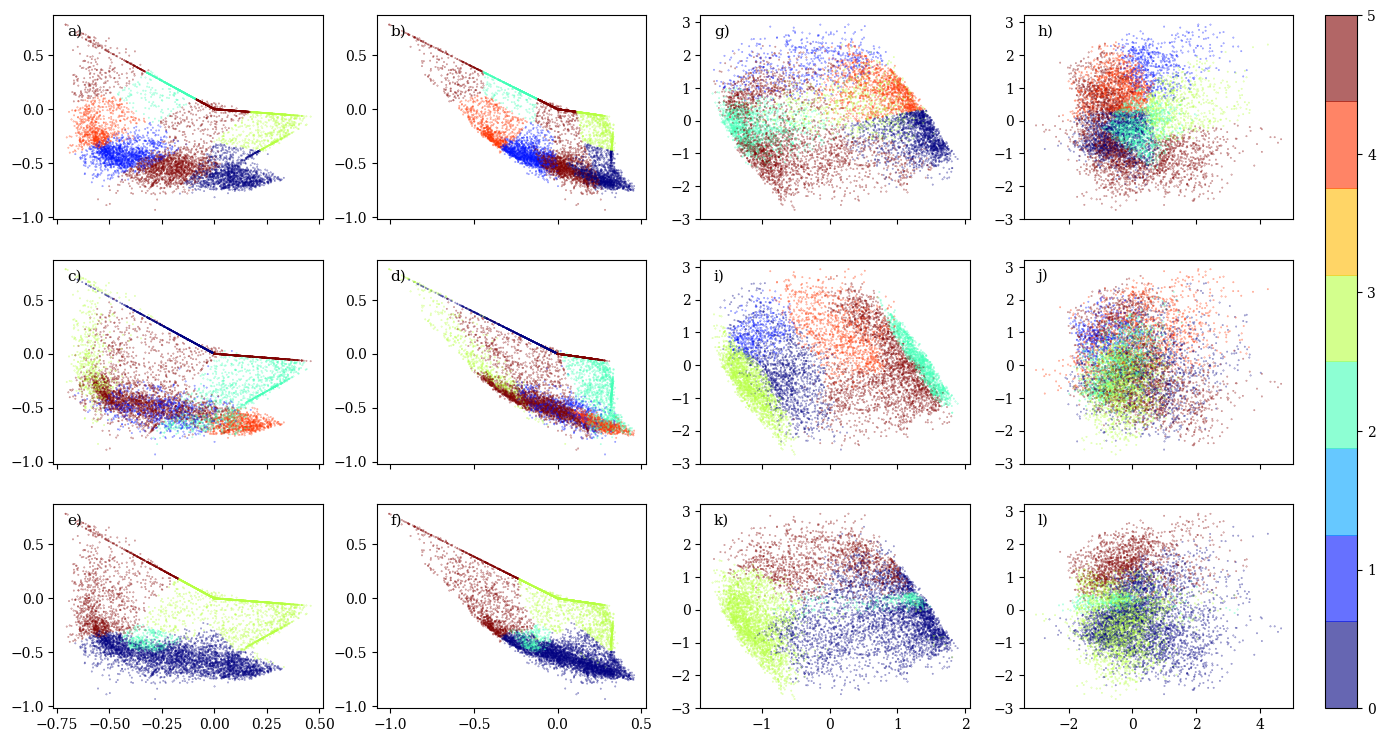
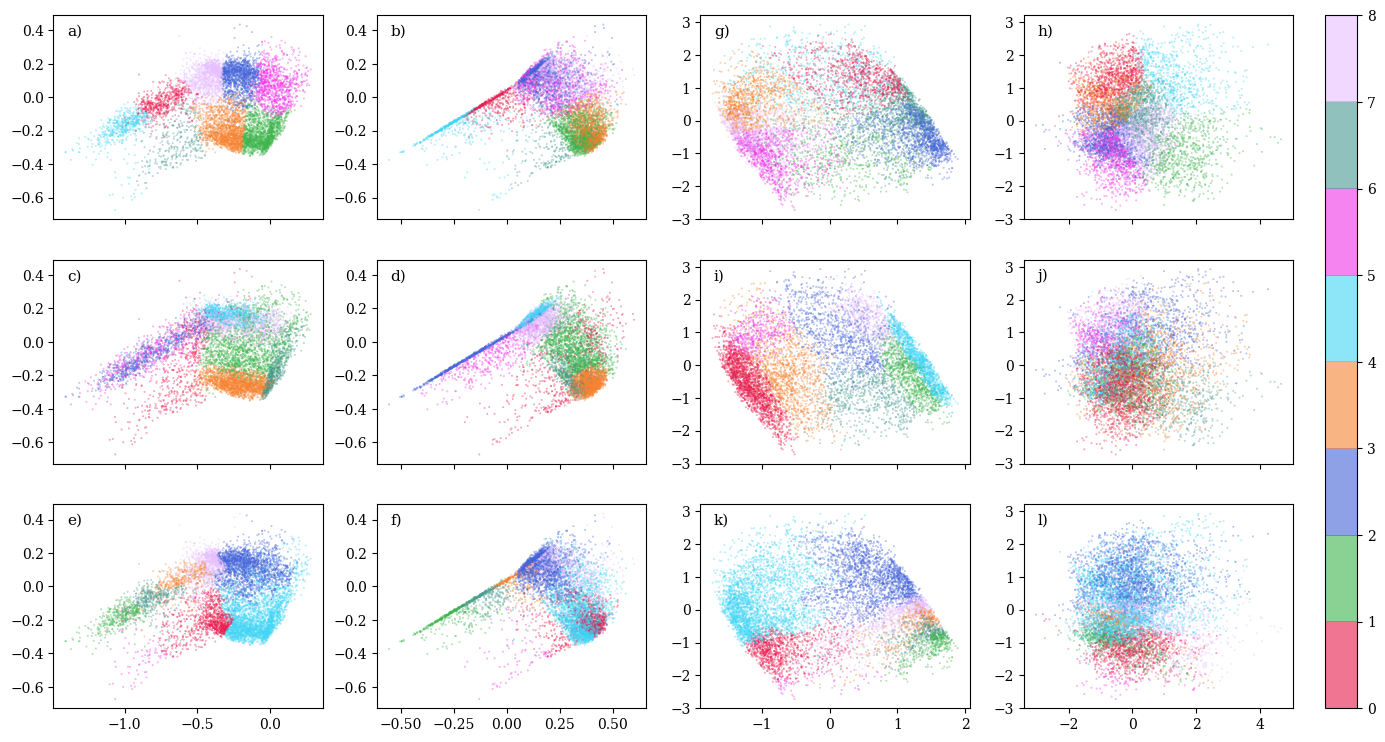
Updated figures and correction of some ploting scripts

diff --git a/paper_figures.py b/paper_figures.py
@@ -32,22 +32,22 @@ def fig_datacoverage(data, cols, fname=None):
         plt.savefig(fname, bbox_inches='tight', transparent=True)
         
 def fig_dimreduc(data, x1, x2, ncls, cmap='Set1', fname=None):
-    cmap = plt.cm.get_cmap(cmap, ncls)
+    cmap = mcolors.ListedColormap(cpalette[:ncls])
     fig, ax = plt.subplots(2,6, figsize=(16,6), sharex='none', sharey='row')
     set_figure()
     alpha = 0.6
     size = 0.1
     
-    ax[0][0].scatter(x1[:,0], x1[:,1], c=data['Xu_SW_type'], s=size, alpha=alpha, vmin=0, vmax=5, cmap=cmap)
-    ax[0][1].scatter(x1[:,2], x1[:,1], c=data['Xu_SW_type'], s=size, alpha=alpha, vmin=0, vmax=5, cmap=cmap)
-    ax[0][2].scatter(x1[:,0], x1[:,1], c=data['Zhao_SW_type'], s=size, alpha=alpha, vmin=0, vmax=5, cmap=cmap)
-    ax[0][3].scatter(x1[:,2], x1[:,1], c=data['Zhao_SW_type'], s=size, alpha=alpha, vmin=0, vmax=5, cmap=cmap)
+    ax[0][0].scatter(x1[:,0], x1[:,1], c=data['Xu_SW_type'], s=size, alpha=alpha, vmin=0, vmax=ncls, cmap=cmap)
+    ax[0][1].scatter(x1[:,2], x1[:,1], c=data['Xu_SW_type'], s=size, alpha=alpha, vmin=0, vmax=ncls, cmap=cmap)
+    ax[0][2].scatter(x1[:,0], x1[:,1], c=data['Zhao_SW_type'], s=size, alpha=alpha, vmin=0, vmax=ncls, cmap=cmap)
+    ax[0][3].scatter(x1[:,2], x1[:,1], c=data['Zhao_SW_type'], s=size, alpha=alpha, vmin=0, vmax=ncls, cmap=cmap)
     ax[0][4].hist2d (x1[:,0], x1[:,1], bins=50, cmap='BuGn', norm=mcolors.PowerNorm(0.3))
     ax[0][5].hist2d (x1[:,2], x1[:,1], bins=50, cmap='BuGn', norm=mcolors.PowerNorm(0.3))
-    ax[1][0].scatter(x2[:,0], x2[:,1], c=data['Xu_SW_type'], s=size, alpha=alpha, vmin=0, vmax=5, cmap=cmap)
-    ax[1][1].scatter(x2[:,2], x2[:,1], c=data['Xu_SW_type'], s=size, alpha=alpha, vmin=0, vmax=5, cmap=cmap)
-    ax[1][2].scatter(x2[:,0], x2[:,1], c=data['Zhao_SW_type'], s=size, alpha=alpha, vmin=0, vmax=5, cmap=cmap)
-    sct = ax[1][3].scatter(x2[:,2], x2[:,1], c=data['Zhao_SW_type'], s=size, alpha=alpha, vmin=0, vmax=5, cmap=cmap)
+    ax[1][0].scatter(x2[:,0], x2[:,1], c=data['Xu_SW_type'], s=size, alpha=alpha, vmin=0, vmax=ncls, cmap=cmap)
+    ax[1][1].scatter(x2[:,2], x2[:,1], c=data['Xu_SW_type'], s=size, alpha=alpha, vmin=0, vmax=ncls, cmap=cmap)
+    ax[1][2].scatter(x2[:,0], x2[:,1], c=data['Zhao_SW_type'], s=size, alpha=alpha, vmin=0, vmax=ncls, cmap=cmap)
+    sct = ax[1][3].scatter(x2[:,2], x2[:,1], c=data['Zhao_SW_type'], s=size, alpha=alpha, vmin=0, vmax=ncls, cmap=cmap)
     ax[1][4].hist2d (x2[:,0], x2[:,1], bins=50, cmap='BuGn', norm=mcolors.PowerNorm(0.3))
     hst = ax[1][5].hist2d (x2[:,2], x2[:,1], bins=50, cmap='BuGn', norm=mcolors.PowerNorm(0.3))
 
@@ -74,25 +74,25 @@ def fig_dimreduc(data, x1, x2, ncls, cmap='Set1', fname=None):
         plt.savefig(fname, bbox_inches='tight', transparent=True)
         
 def fig_clustering(data, x1, x2, y1, y2, y3, y4, y5, y6, ncls, cmap='Set1', fname=None):
-    cmap = plt.cm.get_cmap(cmap, ncls)
+    cmap = mcolors.ListedColormap(cpalette[:ncls])
     fig, ax = plt.subplots(3,4,figsize=(16,9),sharex='col', sharey='col')
     set_figure()
     alpha = 0.6
     size = 0.1
     
-    ax[0][0].scatter(x1[:,0], x1[:,1], c=y1, s=size, alpha=alpha, vmin=0, vmax=5, cmap=cmap)
-    ax[0][1].scatter(x1[:,2], x1[:,1], c=y1, s=size, alpha=alpha, vmin=0, vmax=5, cmap=cmap)
-    ax[1][0].scatter(x1[:,0], x1[:,1], c=y2, s=size, alpha=alpha, vmin=0, vmax=5, cmap=cmap)
-    ax[1][1].scatter(x1[:,2], x1[:,1], c=y2, s=size, alpha=alpha, vmin=0, vmax=5, cmap=cmap)
-    ax[2][0].scatter(x1[:,0], x1[:,1], c=y3, s=size, alpha=alpha, vmin=0, vmax=5, cmap=cmap)
-    ax[2][1].scatter(x1[:,2], x1[:,1], c=y3, s=size, alpha=alpha, vmin=0, vmax=5, cmap=cmap)
+    ax[0][0].scatter(x1[:,0], x1[:,1], c=y1, s=size, alpha=alpha, vmin=0, vmax=ncls, cmap=cmap)
+    ax[0][1].scatter(x1[:,2], x1[:,1], c=y1, s=size, alpha=alpha, vmin=0, vmax=ncls, cmap=cmap)
+    ax[1][0].scatter(x1[:,0], x1[:,1], c=y2, s=size, alpha=alpha, vmin=0, vmax=ncls, cmap=cmap)
+    ax[1][1].scatter(x1[:,2], x1[:,1], c=y2, s=size, alpha=alpha, vmin=0, vmax=ncls, cmap=cmap)
+    ax[2][0].scatter(x1[:,0], x1[:,1], c=y3, s=size, alpha=alpha, vmin=0, vmax=ncls, cmap=cmap)
+    ax[2][1].scatter(x1[:,2], x1[:,1], c=y3, s=size, alpha=alpha, vmin=0, vmax=ncls, cmap=cmap)
     
-    sct = ax[0][2].scatter(x2[:,0], x2[:,1], c=y4, s=size, alpha=alpha, vmin=0, vmax=5, cmap=cmap)
-    ax[0][3].scatter(x2[:,2], x2[:,1], c=y4, s=size, alpha=alpha, vmin=0, vmax=5, cmap=cmap)
-    ax[1][2].scatter(x2[:,0], x2[:,1], c=y5, s=size, alpha=alpha, vmin=0, vmax=5, cmap=cmap)
-    ax[1][3].scatter(x2[:,2], x2[:,1], c=y5, s=size, alpha=alpha, vmin=0, vmax=5, cmap=cmap)
-    ax[2][2].scatter(x2[:,0], x2[:,1], c=y6, s=size, alpha=alpha, vmin=0, vmax=5, cmap=cmap)
-    ax[2][3].scatter(x2[:,2], x2[:,1], c=y6, s=size, alpha=alpha, vmin=0, vmax=5, cmap=cmap)
+    sct = ax[0][2].scatter(x2[:,0], x2[:,1], c=y4, s=size, alpha=alpha, vmin=0, vmax=ncls, cmap=cmap)
+    ax[0][3].scatter(x2[:,2], x2[:,1], c=y4, s=size, alpha=alpha, vmin=0, vmax=ncls, cmap=cmap)
+    ax[1][2].scatter(x2[:,0], x2[:,1], c=y5, s=size, alpha=alpha, vmin=0, vmax=ncls, cmap=cmap)
+    ax[1][3].scatter(x2[:,2], x2[:,1], c=y5, s=size, alpha=alpha, vmin=0, vmax=ncls, cmap=cmap)
+    ax[2][2].scatter(x2[:,0], x2[:,1], c=y6, s=size, alpha=alpha, vmin=0, vmax=ncls, cmap=cmap)
+    ax[2][3].scatter(x2[:,2], x2[:,1], c=y6, s=size, alpha=alpha, vmin=0, vmax=ncls, cmap=cmap)
     
     ax[0][0].text(0.05, 0.9, 'a)', fontsize=11, transform=ax[0][0].transAxes)
     ax[0][1].text(0.05, 0.9, 'b)', fontsize=11, transform=ax[0][1].transAxes)
@@ -145,7 +145,7 @@ def fig_maps(m, n, som, x, data, ftr_name, px, py, hits, dist, W, wmix, scaler, 
     #-- hit map in [0,1]
     size=hits # np.ones_like(hits)
     
-    map_plot(ax[0][1], dist, color, m, n, size=size, scale=8, cmap='inferno_r', lcolor='black', title='Hit map')
+    map_plot(ax[0][1], dist, color, m, n, size=size, scale=3, cmap='inferno_r', lcolor='black', title='Hit map')
     ax[0][1].set_aspect('equal')
     ax[0][1].set_xlim(-1, m-0.5)
     ax[0][1].set_ylim(-0.5, n*0.75-0.25)
@@ -175,7 +175,7 @@ def fig_maps(m, n, som, x, data, ftr_name, px, py, hits, dist, W, wmix, scaler, 
     cmax = color.max()
     color = (color - cmin) / (cmax - cmin)
 
-    map_plot(ax[0][2], dist, color, m, n, size=size, scale=8, cmap='inferno_r', title=ftr_name)
+    map_plot(ax[0][2], dist, color, m, n, size=size, scale=3, cmap='inferno_r', title=ftr_name)
     
     #-- Xu solar wind type int [0,3]
     K = 'avqO'
@@ -196,7 +196,7 @@ def fig_maps(m, n, som, x, data, ftr_name, px, py, hits, dist, W, wmix, scaler, 
     sbmin = size.min()
     sbmax = size.max()
     size  = (size - sbmin)/(sbmax - sbmin) if sbmax>sbmin else np.zeros((m, n))
-    map_plot(ax[0][3], dist, color, m, n, size=size, scale=6, cmap='inferno_r', lcolor='black', title=K+' ['+Q+'='+str(V)+']')
+    map_plot(ax[0][3], dist, color, m, n, size=size, scale=3, cmap='inferno_r', lcolor='black', title=K+' ['+Q+'='+str(V)+']')
 
     #-- Three components in row [1,0:3]
     maxk = min(3, len(feat))
@@ -205,7 +205,7 @@ def fig_maps(m, n, som, x, data, ftr_name, px, py, hits, dist, W, wmix, scaler, 
     cmin  = color.min()
     cmax  = color.max()
     color = (color - cmin) / (cmax - cmin)
-    map_plot(ax[1][0], dist, color, m, n, size=size, scale=8, cmap='inferno_r', title='Feature map')
+    map_plot(ax[1][0], dist, color, m, n, size=size, scale=3, cmap='inferno_r', title='Feature map')
     ax[1][0].set_aspect('equal')
     ax[1][0].set_xlim(-1, m-0.5)
     ax[1][0].set_ylim(-0.5, n*0.75-0.25)
@@ -218,7 +218,7 @@ def fig_maps(m, n, som, x, data, ftr_name, px, py, hits, dist, W, wmix, scaler, 
             cmin  = color.min()
             cmax  = color.max()
             color = (color - cmin) / (cmax - cmin)
-            map_plot(ax[1][i+1], dist, color, m, n, size=size, scale=8, cmap='inferno_r', title='Component '+str(i+1))
+            map_plot(ax[1][i+1], dist, color, m, n, size=size, scale=3, cmap='inferno_r', title='Component '+str(i+1))
             ax[1][i+1].set_aspect('equal')
             ax[1][i+1].set_xlim(-1, m-0.5)
             ax[1][i+1].set_ylim(-0.5, n*0.75-0.25)
@@ -280,8 +280,7 @@ def fig_timeseries(data, beg, end, n_clusters, fname=None):
     set_figure()
     
     ax[0].set_xlim(pd.to_datetime(beg), pd.to_datetime(end))
-    cmap = mcolors.ListedColormap(cpalette)
-    # cmap = plt.cm.get_cmap('jet', n_clusters)
+    cmap = mcolors.ListedColormap(cpalette[:n_clusters])
     ax[0].scatter(data[beg:end].index, data[beg:end]['proton_speed'], c=data[beg:end]['class-kmeans'], cmap=cmap, s=5, zorder=3)
     ax[1].scatter(data[beg:end].index, data[beg:end]['proton_speed'], c=data[beg:end]['class-gmm'], cmap=cmap, s=5, zorder=3)
     ax[2].scatter(data[beg:end].index, data[beg:end]['proton_speed'], c=data[beg:end]['class-som'], cmap=cmap, s=5, zorder=3)
@@ -360,7 +359,7 @@ def fig_tsfeatures(data, ftr, cl, beg, end, n_clusters, fname=None):
     icme = pd.read_csv('catalogs/Richarson_Cane_ICME_cat.csv', comment="#", parse_dates=['Datetime'], index_col='Datetime')
     
     ax[0].set_xlim(pd.to_datetime(beg), pd.to_datetime(end))
-    cmap = mcolors.ListedColormap(cpalette)
+    cmap = mcolors.ListedColormap(cpalette[:n_clusters])
     
     for a, f in enumerate(ftr):
         ax[a].scatter(data[beg:end].index, data[beg:end][f], c=data[beg:end][cl], cmap=cmap, s=5, zorder=3)

diff --git a/swinsom-ace.py b/swinsom-ace.py
@@ -55,7 +55,7 @@ params = {'Roberts' :
               {'ybeg' : 2002,
                'yend' : 2004,
                'autoencode' : True,
-               'nodes' : [8, 6, 4, 3],
+               'nodes' : [8, 5, 3],
                'pca' : True,
                'm' : 12,
                'n' : 12,
@@ -101,7 +101,7 @@ params = {'Roberts' :
               {'ybeg' : 1998,
                'yend' : 2011,
                'autoencode' : True,
-               'nodes' : [27, 15, 6, 3],
+               'nodes' : [27, 17, 7, 3],
                'pca' : True,
                'm' : 12,
                'n' : 12,
@@ -322,9 +322,6 @@ if optim:
         lr = trial.suggest_uniform('lr', 0.01, lrmax)
         sg = trial.suggest_uniform('sg', 1.0, sgmax)
         som = selfomap(x, m, n, int(maxiter/(sg*lr*100)), sigma=sg, learning_rate=lr, init=init, dynamic=dynamic)
-        # dist = som_distances(som)
-        # print(" Mean distance: ", dist.mean())
-        # return som.quantization_error(x) + dist.mean() + 0.05*sg
         return som.quantization_error(x)
 
     print('SOM HPO...')    
